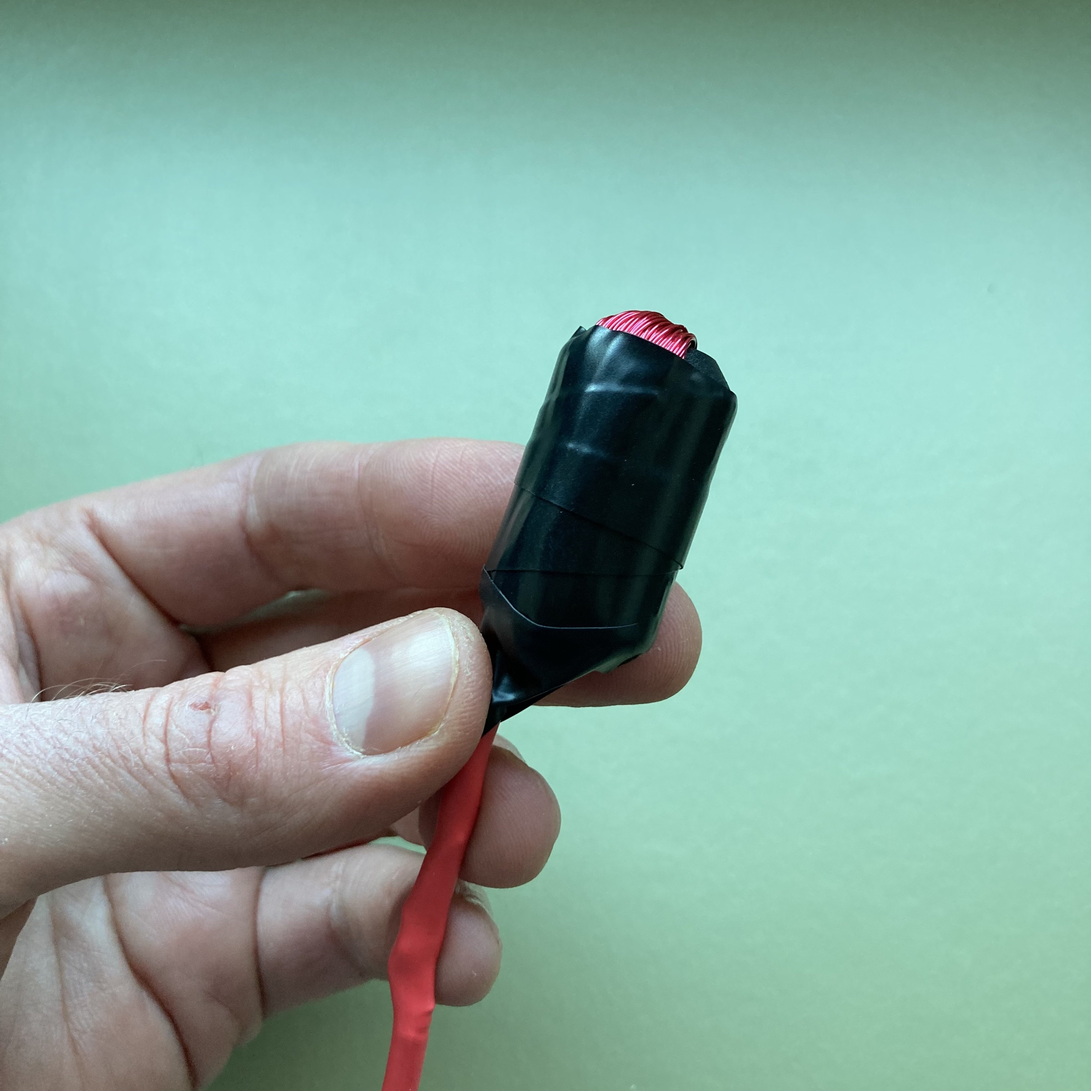
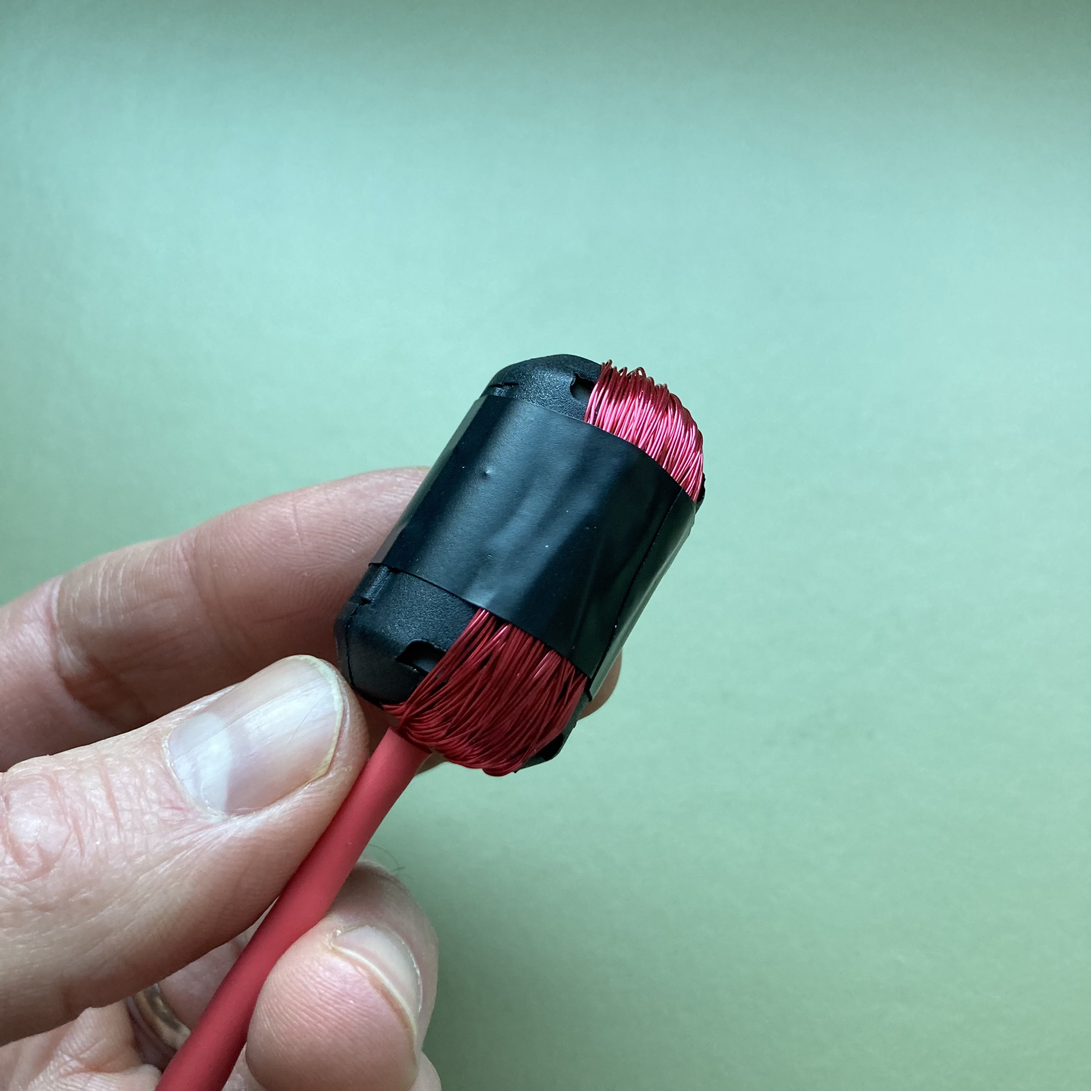
updates to contact mic and inductor workshops

diff --git a/workshops/inductors/inductors.md b/workshops/inductors/inductors.md
@@ -5,9 +5,8 @@
 - 28 AWG Enameled Magnet Wire Spool
 - 1/8" TS (mono) audio cable
 - Electrical Tape
-- Heat shrink tubing
+- 3/16" heat shrink tubing
 - Sandpaper
-<!-- also check bandaids -->
 
 ### Tools
 - Coarse wire strippers (yellow band)
@@ -25,7 +24,7 @@
 ![](media/2.jpg)
 1. Carefully wind the wire from the spool around one side of the core. Make this nice and taught and as even as possible.
 ![](media/3.jpg)
-1. Wind **~100** times, then carefully close and latch the core. Cut the wire so that you have two even leads about an inch long.
+1. Wind **~100** times, then carefully close and latch the core. Cut the wire so that you have two even leads about an inch long, both which are coming through the hole of the core.
 ![](media/4.jpg)
 1. Carefully sand off the insulation/enamel from the magent wire (the red coating) on both leads to leave .5" of the copper exposed.
 ![](media/5.jpg)
@@ -33,11 +32,11 @@
 ![](media/6.jpg)
 1. Follow the remaining instructions for prepare the ends of the audio cable from the instructions for [building contact mics](../contact_mics/contact_mics.md), and solder each lead of your inductor to the wires of the cable (polarity doesn't matter).
 ![](media/7.jpg)
-1. Wrap a small piece of electrical tape around the joint with the inner wire.
+1. Wrap a small piece of electrical tape around the joint with the inner wire. Make sure you cover everything between the white insulation and the enamel—you're preventing the two wires from making an electrical connection. Don't do both wires, because you'll need this to fit into the heat shrink.
 ![](media/8.jpg)
 1. Slide the shrink wrap tubing up to the base of the ferrite core, covering all your joints and solders, and use the heat gun to shrink it down.
 ![](media/9.jpg)
-1. Tightly wrap the ferrite core with electrical tape to protect the coil
+1. Tightly wrap the ferrite core with electrical tape to protect the coil.
 ![](media/10.jpg)
 
 ## Use

diff --git a/exercises/capturing_place.md b/exercises/capturing_place.md
@@ -2,25 +2,7 @@
 
 Find a site to record (it doesn't have to be the same as the site you used for your soundmap project) and record it from a few different perspectives for about a minute or so each time. Pay attention to how the mic placement affects the results when you listen back with headphones. Remember that your ears are very good at paying attention to soft sounds in the distance, but the microphone is not. Get up close to things so that you have a mixture of background and foreground sounds with some discrete sound events. Choose your favorite version to turn in on Moodle. 
 
-
-### Checklist for DR-05X
-- Hold down the ⏹ button to turn on the recorder
-- Menu → REC SETTING → FORMAT → WAV 24bit (_format_ and _bit-depth_)
-- Menu → REC SETTING → SAMPLE → 48k (_sampling-rate_)
-- Menu → REC SETTING → LOW CUT → 40Hz (_filter_ out wind and handling noise)
-- Menu → REC SETTING → TYPE → STEREO (record two channels)
-- Use a windscreen if outside
-
-### Recording
-- Press the record button once to preview the sound in your headphones (REC light will flash)
-- Use the + and - buttons to adjust VOL (headphone volume only)
-- Set the INPUT LEVEL using the ⏮ and ⏭ buttons. The sound level should regularly reach -12db, but it should only rarely _peak_ (hit above 0db)
-- Press the record button again to start recording (REC light will turn solid).
-- Don't adjust the INPUT LEVEL once you have started
-
-### Transferring files
-While it is off, plug the recorder into your computer using the USB cable. Turn it on and choose "SD CARD READER" at the prompt. and copy the WAV files from the MUSIC folder to your computer.
-
+Before you record, review the [recording_checklist](../workshops/recording_checklist.md).
 
 
 ### Followup

diff --git a/workshops/contact_mics/contact_mics.md b/workshops/contact_mics/contact_mics.md
@@ -42,8 +42,10 @@
 ![](media/contact_mic_13.jpg)
 1. Coil the piezo wire so that it fits on top of the disc, and tape it with a piece of electrical tape. Trim the tape if necessary.
 ![](media/contact_mic_14.jpg)
-1. Use Plasti-dip, heat shrink, or hot glue to secure it.
-
+1. Liberally apply hot glue to secure all loose wires; make sure the thick cable itself is included.
+![](media/contact_mic_15.jpg)
+1. Contact mics work best when they are directly attached to something. Sticky tack works well for this.
+![](media/contact_mic_16.jpg)
 
 
 ## Use
@@ -52,15 +54,11 @@ Your contact mic may be used as an external input to the DR-05X via the jack at 
 
 The contact mic is just a single signal, so you'll want to switch to "MONO" under "Menu → REC SETTING → TYPE" on your recorder (remember to switch it back if you're going to return to the built-in mics!).
 
-From there, all the same recording procedures apply.
+Other than that, all the same recording procedures apply as in the standard [recording_checklist](../workshops/recording_checklist.md).
 
 However, note that contact mics can produce a very "hot"—ie, loud—signal, which can easily clip and be harmful to your ears. Always **start with low gain** to avoid this.
 
 ![](media/mono.jpg)
-
-### Tack
-
-Contact mics work best when they are directly attached to something. Sticky tack works well for this.
 
 
 ## How it works
@@ -73,4 +71,5 @@ The [piezoelectric effect](https://en.wikipedia.org/wiki/Piezoelectricity) is a 
 ## Additional Resources
 
 - https://www.zachpoff.com/resources/building-contact-mics/  
+
 

diff --git a/NEXT.md b/NEXT.md
@@ -1,5 +1,7 @@
 # Next
 
+MAKE SURE ADDING THE CLASS IN ADD/DROP REQUIRES PERMISSION
+
 
 ## Intro
 
@@ -7,7 +9,7 @@ can the intro be a way of teaching transduction, rather than listening? use bodi
 
 /
 
-there should be something more interesting about the size and nature of sound waves. could that be the hand-on workshop?
+or, there chould be something more interesting about the size and nature of sound waves. could that be the hand-on workshop?
 
 
 
@@ -19,12 +21,28 @@ but regardless, this kind of sucked. it needs to be at the least a physical demo
 
 electromagnetism is so central, also, we need to see an electromagnet.
 
+What is Audio! electrical signal that fluctuates in a way that is analogous to a sound wave — and which is then transferred into one (whether or not it originated as one)
+
+digital? == measurements
+
+
+### contact mics
+
+
+add the preamp circuit for them?
+https://www.richardmudhar.com/blog/2022/07/piezo-contact-microphone-preamp-for-plug-in-power/
+
+
+show the images on the display as I go around
+
 
 ## Editing / Arranging
 
 have a demo file for this! I did it without hearing anything, which was ridiculous
 
 note the headphone quirk where it doesnt recognize the device
+
+a chance to have mixing feedback is a bit important
 
 
 

diff --git a/README.md b/README.md
@@ -113,6 +113,7 @@ Our college is named after a white colonizer and is built in the Kwinitekw Valle
 
 #### Monday 2/12
 <!-- Heather brings keys -->
+<!-- barely fits, time wise -->
 - Listen to Editing exercise
 - Stephen Vitiello, _World Trade Center Recordings_ (1999)
 - What is a "circuit"?
@@ -121,6 +122,7 @@ Our college is named after a white colonizer and is built in the Kwinitekw Valle
 
 
 #### Wednesday 2/14
+<!-- go over lab rules -->
 - Reading due: [Brandon Labelle, "Auditory Relations" (2006)](readings/labelle_auditory_relations.pdf)
 - Christina Kubisch, _Electrical Walks_ (1970s–)
 - Workshop: [Inductors](workshops/inductors/inductors.md)
@@ -132,13 +134,14 @@ Our college is named after a white colonizer and is built in the Kwinitekw Valle
 #### Monday 2/19
 - Listen to Non-Acoustic Vignette
 - Janet Cardiff, _Her Long Black Hair_ (2004)
-- Begin [Soundscape](projects/soundscape.md) project
+- Begin [Soundscape](projects/soundscape.md) project <!-- desk crits? -->
 
 
 #### Wednesday 2/21
 - Reading due: Dylan Robinson, "Hungry Listening" (2020)
 - Ernst Karel, _Heard Laboratories_ (2010)
 - Present proposals for Soundscape project
+<!-- have some recordings ready for editing in class next time -->
 
 
 ### Week 5 — Soundscapes continued

diff --git a/workshops/recording_checklist.md b/workshops/recording_checklist.md
@@ -1,0 +1,19 @@
+# Recording Checklist for DR-05X
+
+### Before you record
+- Hold down the ⏹ button to turn on the recorder
+- Menu → REC SETTING → FORMAT → WAV 24bit (_format_ and _bit-depth_)
+- Menu → REC SETTING → SAMPLE → 48k (_sampling-rate_)
+- Menu → REC SETTING → LOW CUT → 40Hz (_filter_ out wind and handling noise)
+- Menu → REC SETTING → TYPE → STEREO (record two channels)
+- Use a windscreen if outside
+
+### Recording
+- Press the record button once to preview the sound in your headphones (REC light will flash)
+- Use the + and - buttons to adjust VOL (headphone volume only)
+- Set the INPUT LEVEL using the ⏮ and ⏭ buttons. The sound level should regularly reach -12db, but it should only rarely _peak_ (hit above 0db)
+- Press the record button again to start recording (REC light will turn solid).
+- Don't adjust the INPUT LEVEL once you have started
+
+### Transferring files
+While it is off, plug the recorder into your computer using the USB cable. Turn it on and choose "SD CARD READER" at the prompt. and copy the WAV files from the MUSIC folder to your computer.

diff --git a/plan.md b/plan.md
@@ -1,5 +1,9 @@
 # Introduction to Sound Art
 
+## electrets
+
+what is the response range? could they actually work for infrasound/ultrasound?? that would be a whole unit.
+
 
 ## circuits
 
